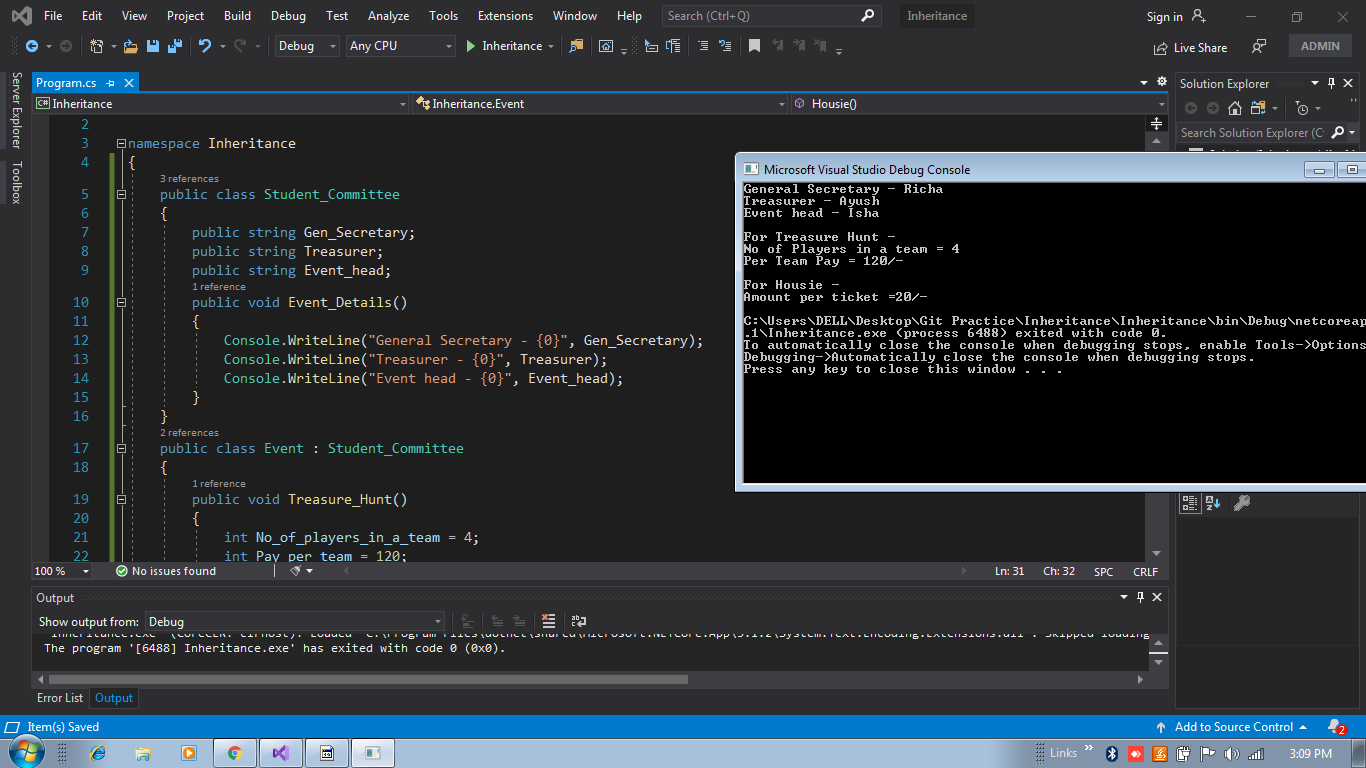
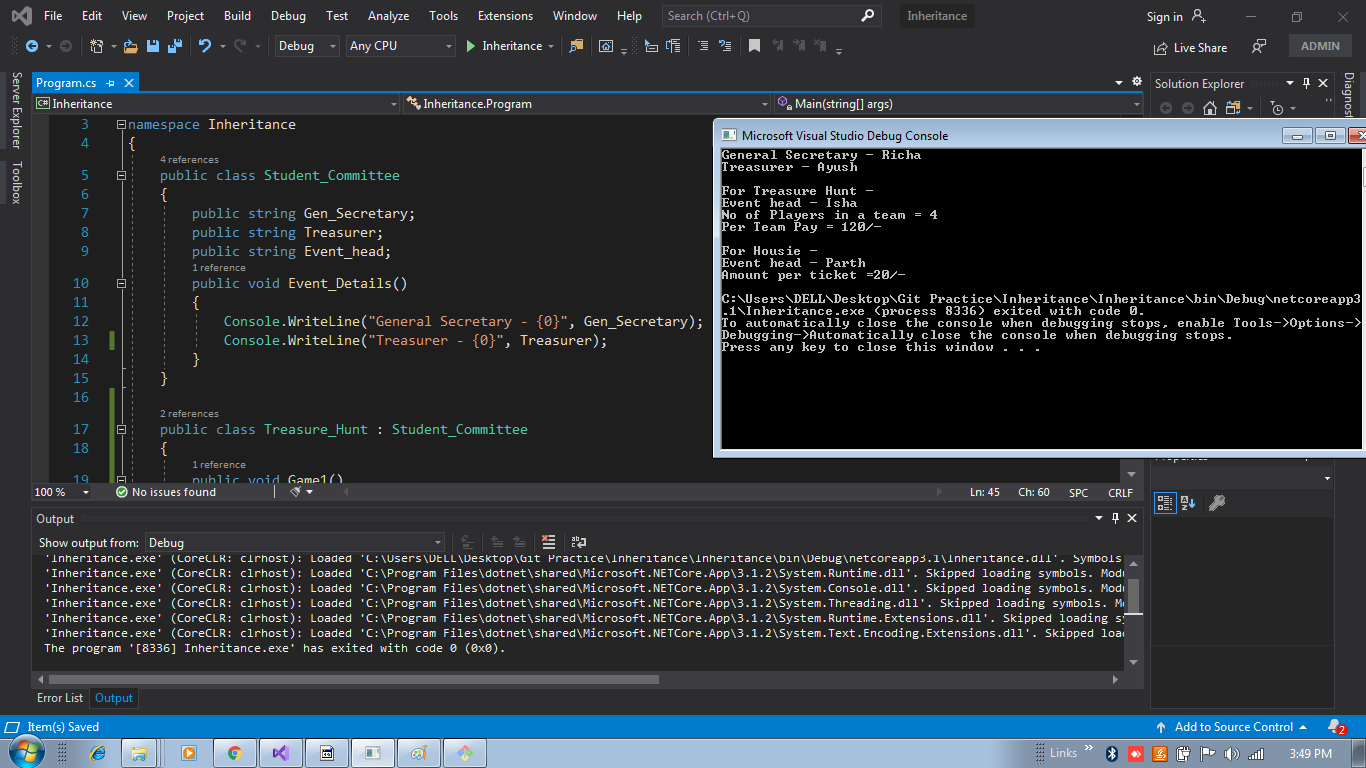
Added Inheritance Task

diff --git a/Inheritance/Inheritance/Program.cs b/Inheritance/Inheritance/Program.cs
@@ -11,42 +11,49 @@ namespace Inheritance
         {
             Console.WriteLine("General Secretary - {0}", Gen_Secretary);
             Console.WriteLine("Treasurer - {0}", Treasurer);
-            Console.WriteLine("Event head - {0}", Event_head);
         }       
     }
-    public class Event : Student_Committee
+    
+    public class Treasure_Hunt : Student_Committee
     {
-        public void Treasure_Hunt()
+        public void Game1()
         {
             int No_of_players_in_a_team = 4;
             int Pay_per_team = 120;
             Console.WriteLine("");
             Console.WriteLine("For Treasure Hunt - ");
+            Console.WriteLine("Event head - {0}", Event_head);
             Console.WriteLine("No of Players in a team = {0}", No_of_players_in_a_team);
             Console.WriteLine("Per Team Pay = {0}/-", Pay_per_team);
             Console.WriteLine("");
         }
-        public void Housie()
+    }
+    public class Housie : Student_Committee
+    {
+         public void Game2()
         {
-            int Per_ticket =20;
+            int Per_ticket = 20;
             Console.WriteLine("For Housie - ");
+            Console.WriteLine("Event head - {0}", Event_head);
             Console.WriteLine("Amount per ticket ={0}/-", Per_ticket);
         }
-    }
+    }  
     class Program
     {
         static void Main(string[] args)
         {
             Student_Committee SC = new Student_Committee();
             SC.Gen_Secretary = "Richa";
-            SC.Treasurer = "Ayush";       
-            SC.Event_head = "Isha";
-
+            SC.Treasurer = "Ayush";
             SC.Event_Details();
 
-            Event E = new Event();
-            E.Treasure_Hunt();
-            E.Housie();
+            Treasure_Hunt TH = new Treasure_Hunt();
+            TH.Event_head = "Isha";
+            TH.Game1();
+
+            Housie H = new Housie();
+            H.Event_head = "Parth";
+            H.Game2();          
         }
     }
 }
